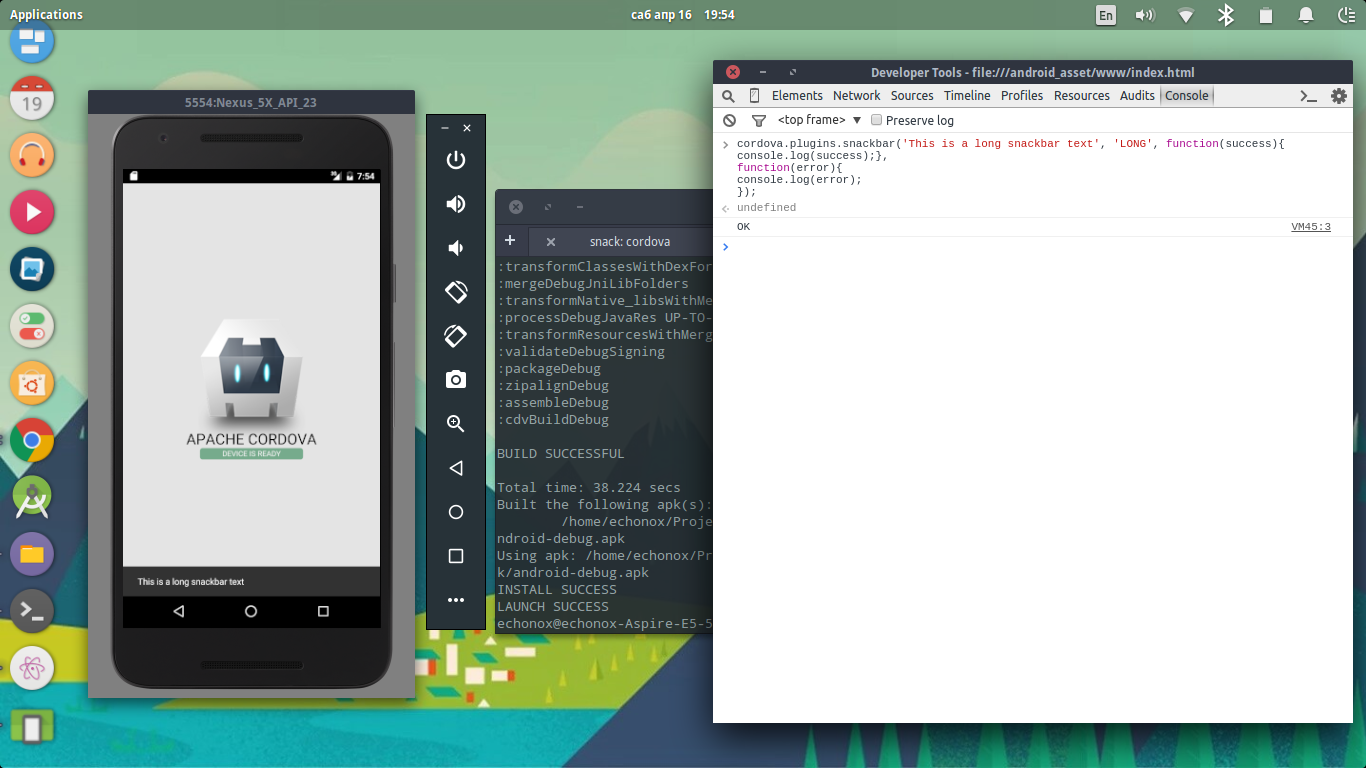
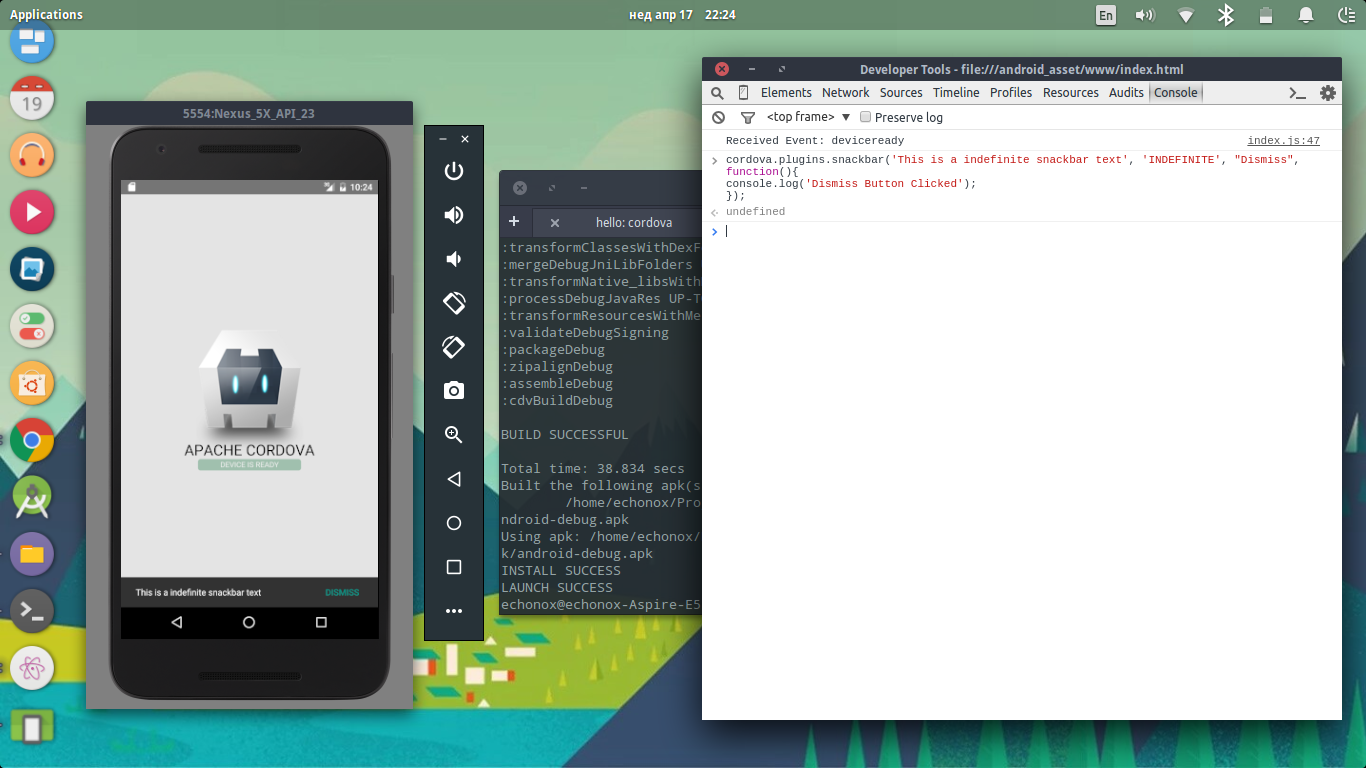
Released version 2.0.2 with more features

diff --git a/www/materialSnackbar.js b/www/materialSnackbar.js
@@ -1,13 +1,14 @@
-var snackbar = function(text, duration, successCallback, errorCallback){
+var snackbar = function(text, duration, button, successCallback){
 
     cordova.exec(
             successCallback, // success callback function
-            errorCallback, // error callback function
+            null, // error callback function
             'MaterialSnackbar', // mapped to our native Java class called "CalendarPlugin"
             'materialSnackbar', // with this action name
             [{                  // and this array of custom arguments to create our entry
                 "text": text,
-                "duration": duration
+                "duration": duration,
+                "button": button
             }]
         );
 }

diff --git a/src/android/MaterialSnackbar.java b/src/android/MaterialSnackbar.java
@@ -9,6 +9,7 @@ import org.json.JSONException;
 import org.json.JSONObject;
 import android.support.design.widget.Snackbar;
 import android.widget.FrameLayout;
+import android.view.View;
 
 public class MaterialSnackbar extends CordovaPlugin {
 
@@ -16,15 +17,11 @@ public class MaterialSnackbar extends CordovaPlugin {
 
   @Override
     public void initialize(CordovaInterface cordova, CordovaWebView webView) {
-
         layout = (FrameLayout) webView.getView().getParent();
-
-      }
-
+    }
 
     @Override
     public boolean execute(String action, JSONArray args, final CallbackContext callbackContext) throws JSONException {
-
         try {
             if ("materialSnackbar".equals(action)) {
 
@@ -34,28 +31,36 @@ public class MaterialSnackbar extends CordovaPlugin {
 
                 final String duration = arg_object.getString("duration");
 
+                final String button = arg_object.getString("button");
+
                 cordova.getActivity().runOnUiThread(new Runnable() {
                     public void run() {
 
-                        Snackbar snackbar = Snackbar
-                        .make(layout, text, Snackbar.LENGTH_LONG);
+                        final Snackbar snackbar = Snackbar
+                        .make(layout, text, Snackbar.LENGTH_INDEFINITE);
 
                         if(duration.equals("SHORT")){
                           snackbar.setDuration(Snackbar.LENGTH_SHORT);
                         } else if(duration.equals("LONG")){
                           snackbar.setDuration(Snackbar.LENGTH_LONG);
-                        } /*else if(duration.equals("INDEFINITE")){
+                        } else if(duration.equals("INDEFINITE")){
                           snackbar.setDuration(Snackbar.LENGTH_INDEFINITE);
-                        }*/
+                        }
 
+                        if(!button.isEmpty()){
+                          snackbar.setAction(button, new View.OnClickListener() {
+                              @Override
+                              public void onClick(View view) {
+                                  snackbar.dismiss();
+                                  callbackContext.success();
+                              }
+                          });
+                        }
                         snackbar.show();
-
-                        callbackContext.success();
                     }
                 });
                 return true;
             }
-            callbackContext.error("Invalid action");
             return false;
         } catch(Exception e) {
             System.err.println("Exception: " + e.getMessage());

diff --git a/README.md b/README.md
@@ -21,6 +21,11 @@
 
 # cordova-plugin-snackbar
 
+
+##MAJOR UPDATE Version 2.0.2:
+
+Two new features added: "INDEFINITE" duration and Action Button, Api slightly changed please check the new Api below.
+
 This is a cordova plugin which allows you to display a Material Design Snackbar
 NOTE: You must wait for the `deviceready` event.
 
@@ -69,26 +74,26 @@ NOTE: You must wait for the `deviceready` event.
 
 ## Usage
 
-    cordova.plugins.snackbar(text, duration, success, error);
+    cordova.plugins.snackbar(text, duration, button, callback);
 
-    success - Success callback function, which returns OK String.
+    text // String text for the Snackbar
 
-    error - Error callback function, which returns Error String
+    duration  //How long to show the Snackbar
+    parameters: "SHORT", "LONG" and "INDEFINITE" (default, show snackbar until it's dismissed by clicking the action button)
 
-    text - //String text for the Snackbar
+    button - String text for the Action Button
 
-    duration - params "SHORT" (default), "LONG" //How long to show the Snackbar
+    callback - Callback function for the Action Button.
 
 ## Example
 
     document.addEventListener("deviceready", onDeviceReady, false);
     function onDeviceReady() {
-        cordova.plugins.snackbar('This is a long snackbar text', 'LONG', function(success){
-          console.log(success);
-          }, function(error){
-              console.log(error);
-            });
+        cordova.plugins.snackbar('This is a indefinite snackbar text', 'INDEFINITE', "Dismiss", function(){
+          console.log('Dismiss Button Clicked');
+        });
     }
+
 
 ### Supported Platforms
 
